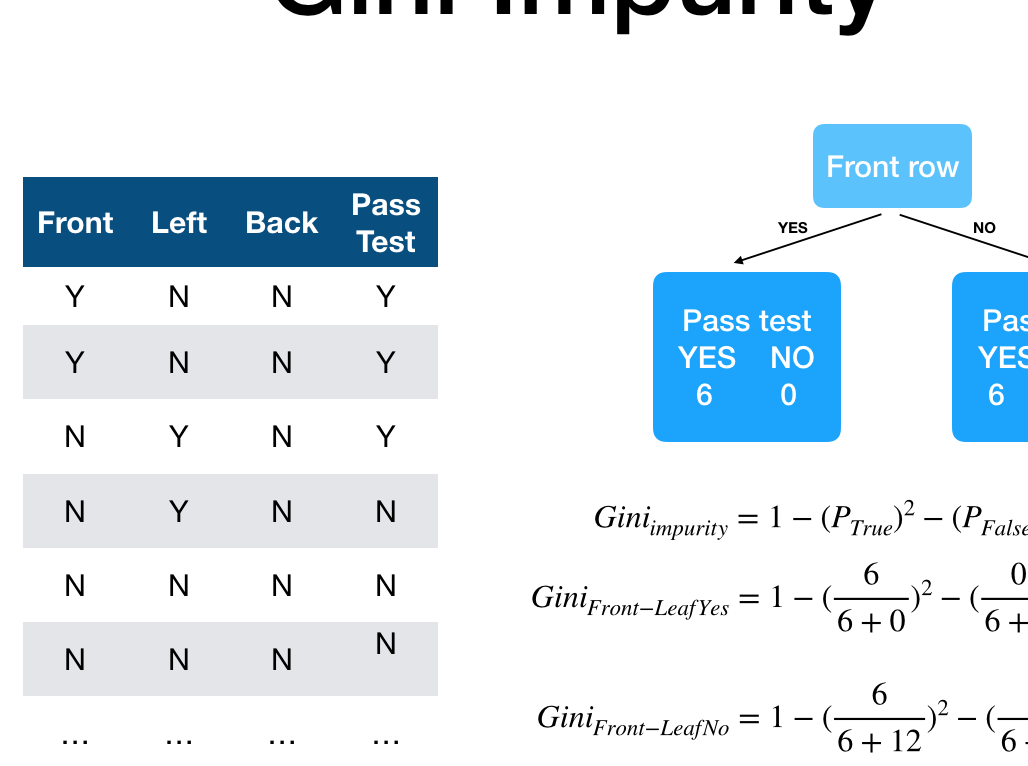
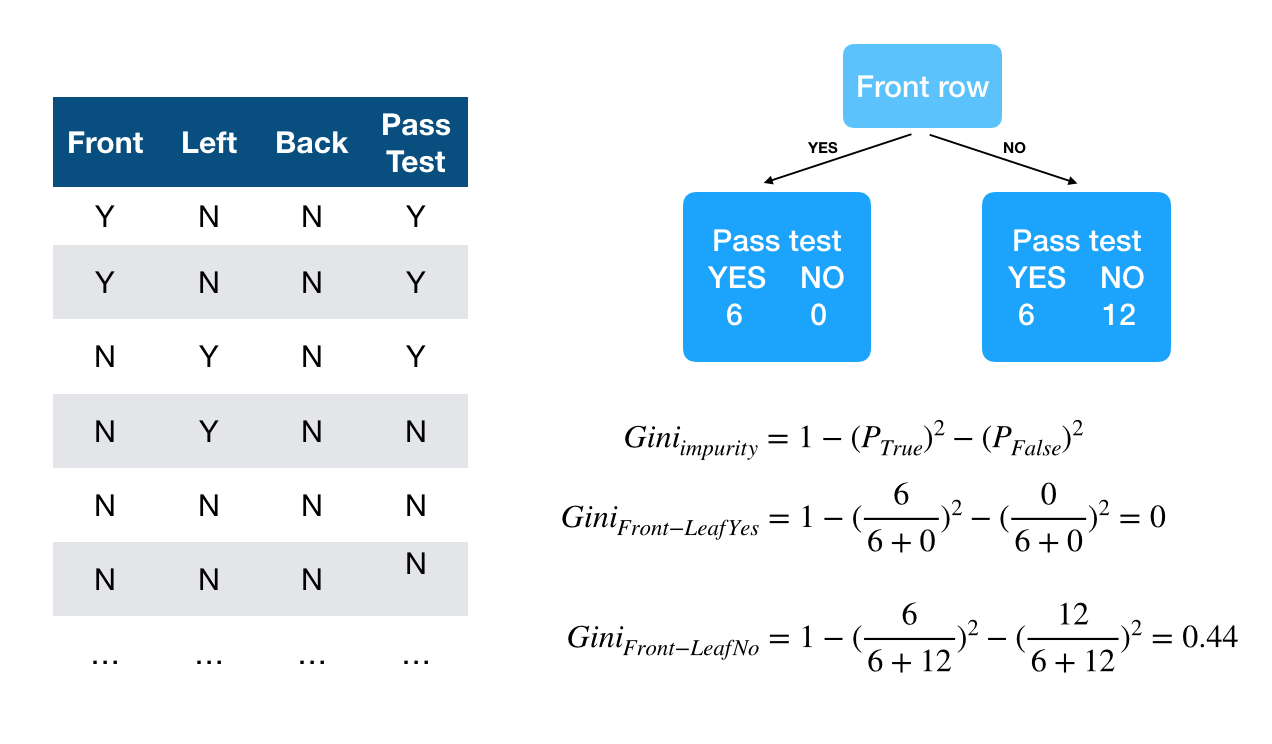
Update quizz and fix slides error

diff --git a/slides/chapter1_01_introduction.md b/slides/chapter1_01_introduction.md
@@ -12,13 +12,13 @@ type: slides
 # What about cliché: Classroom spot:predictor of success?
 
 <p align="center">
-<img src="slide2.png" class="center" alt="slide" width="80%">
+<img src="slide2.png" class="center" alt="slide" width="60%">
 </p>
 
 ---
 
 <p align="center">
-<img src="slide3.png" class="center" alt="slide" width="100%">
+<img src="slide3.png" class="center" alt="slide" width="60%">
 </p>
 
 ---
@@ -39,7 +39,7 @@ You have two minutes to draw a decision tree from the split presented before
 # Let's Draw a decision tree
 
 <p align="center">
-<img src="slide6.png" class="center" alt="slide" width="60%">
+<img src="slide6.png" class="center" alt="slide" width="80%">
 </p>
 
 ---
@@ -47,7 +47,7 @@ You have two minutes to draw a decision tree from the split presented before
 # Gini Impurity
 
 <p align="center">
-<img src="slides7.png" class="center" alt="slide" width="60%">
+<img src="slide7.png" class="center" alt="slide" width="60%">
 </p>
 
 ---
@@ -55,7 +55,7 @@ You have two minutes to draw a decision tree from the split presented before
 # Giny Impurity for the front node
 
 <p align="center">
-<img src="slide8.png" class="center" alt="slide" width="60%">
+<img src="slide8.png" class="center" alt="slide" height="80%">
 </p>
 
 ---
@@ -149,6 +149,7 @@ You have two minutes to draw a decision tree from the split presented before
     - Black & Red
     - Blue & Red
     - Blue & Black
+- No need to compute the combination which include all the categories. 
 
 ---
 

diff --git a/chapters/chapter1.md b/chapters/chapter1.md
@@ -42,21 +42,21 @@ Check the documentation of scikit-learn to build a DecisionTree classifier [here
 
  <exercise id="4" title="Quizz 1">
 
-What is the Gini index of the *Hot* node ?
+What is the Gini index of the *Colour Marker* node ?
 
 <p align="center">
-<img src="gini.jpg" class="center" alt="giniex" width="80%">
+<img src="giniquizz.png" class="center" alt="giniex" width="80%">
 </p>
 
 <choice>
 
-<opt text="0.28" correct="true">
+<opt text="0.23 correct="true">
 
 Good job!
 
 </opt>
 
-<opt text="0.52">
+<opt text="0.48">
 
 Don't forget to calculate the weighted average of both Gini impurity of the leaf nodes.
 
